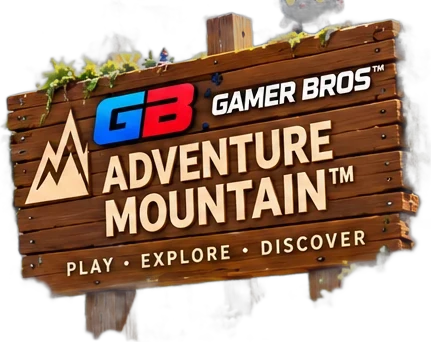
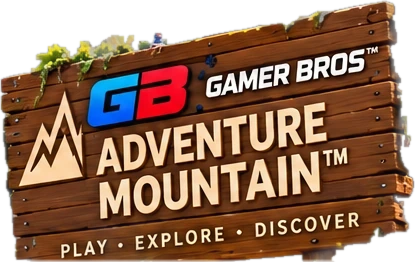
Pass A corrections: portrait map, character framing, sign/Bros re-extraction
- Portrait map: larger pannable map (readable labels), pan arrows and a
  minimap showing the whole world with the visible window; starts at
  Portal Meadow
- Hero character layer is now data-driven per slide (.hero__fg) so new
  transparent cutouts can be swapped without layout changes
- Portrait stills are framed in the scene band so Gamer Bro Blue is never
  hidden behind the fixed copy; blurred same-frame backdrop behind the copy
- Bros and sign re-extracted from the lossless reference; sign haze removed
- Blue's arm stub (hand hidden in the source) faded with a mask
- Slower carousel (8.5s interval, 1.5s transition)
- ASSET_AUDIT.md records sources, rejected candidates and art still needed

Claude-Session: https://claude.ai/code/session_01WDMc6omQTtU5QGMbzTfAf7

diff --git a/staging/staging.css b/staging/staging.css
@@ -81,7 +81,7 @@ button{font:inherit;color:inherit;cursor:pointer}
 /* ---------- hero ---------- */
 .hero{position:relative;height:calc(560 * var(--u));min-height:300px}
 .hero__slides{position:absolute;inset:0;overflow:hidden;z-index:0;touch-action:pan-y}
-.hero__track{display:flex;height:100%;transition:transform 1.1s cubic-bezier(.65,.02,.25,1);will-change:transform}
+.hero__track{display:flex;height:100%;transition:transform 1.5s cubic-bezier(.65,.02,.25,1);will-change:transform}
 .slide{flex:0 0 100%;height:100%;margin:0}
 .slide img{width:100%;height:100%;object-fit:cover;object-position:var(--pos,50% 40%);filter:brightness(1.06) saturate(1.05)}
 .slide:first-child{--pos:50% 30%}
@@ -96,23 +96,29 @@ button{font:inherit;color:inherit;cursor:pointer}
     linear-gradient(90deg,rgba(3,16,54,.78) 0,rgba(5,24,72,.55) 20%,rgba(6,28,80,.16) 33%,rgba(6,28,80,0) 42%);
 }
 
-/* fixed brand sign (sits under the map clouds) */
+/* fixed brand sign (independent of the slides) */
 .hero__sign{
   position:absolute;z-index:4;
-  -webkit-mask-image:linear-gradient(180deg,#000 78%,transparent 97%);
-          mask-image:linear-gradient(180deg,#000 78%,transparent 97%);
-  left:calc(1050 * var(--u));top:calc(220 * var(--u));width:calc(431 * var(--u));height:auto;
+  left:calc(1056 * var(--u));top:calc(238 * var(--u));width:calc(415 * var(--u));height:auto;
   filter:drop-shadow(0 calc(8 * var(--u)) calc(14 * var(--u)) rgba(0,20,40,.35));
   pointer-events:none;
 }
-/* slide-1 action art (sits above the map clouds so the shoes bleed into them) */
-.hero__bros{
-  position:absolute;z-index:6;
-  left:calc(491 * var(--u));top:calc(74 * var(--u));width:calc(510 * var(--u));height:auto;
-  transition:opacity .7s ease,transform .9s cubic-bezier(.2,.8,.2,1);
-  pointer-events:none;
+/* character layer: sits above the map clouds so shoes/limbs can bleed into them.
+   Each cutout carries its own box (see index.html); swapping art needs no layout change. */
+.hero__fg{position:absolute;inset:0;z-index:6;pointer-events:none}
+.fg{
+  position:absolute;height:auto;
+  left:calc(var(--x) * var(--u));top:calc(var(--y) * var(--u));width:calc(var(--w) * var(--u));
+  opacity:0;transform:translateY(calc(18 * var(--u))) scale(.98);
+  transition:opacity .9s ease,transform 1.1s cubic-bezier(.2,.8,.2,1);
 }
-.hero__bros.is-hidden{opacity:0;transform:translateY(calc(18 * var(--u))) scale(.98)}
+.fg.is-active{opacity:1;transform:none}
+/* source limitation: Blue's outstretched hand is hidden behind baked text in the approved
+   reference, so the sleeve ends in a stub. Fade it into the scene until a full-limb cutout exists. */
+.fg--stub-left{
+  -webkit-mask-image:linear-gradient(90deg,transparent 0,#000 10%);
+          mask-image:linear-gradient(90deg,transparent 0,#000 10%);
+}
 
 /* fixed hero copy */
 .hero__copy{position:absolute;inset:0;z-index:7;pointer-events:none}
@@ -202,6 +208,8 @@ button{font:inherit;color:inherit;cursor:pointer}
           mask-image:linear-gradient(180deg,transparent 0,#000 calc(40 * var(--u)));
 }
 .map:focus-visible{outline:none}
+.map-frame{position:relative}
+.map__pan,.map-nav{display:none}
 .map__canvas{position:relative;width:100%}
 .map__img{width:100%;height:auto}
 .hotspot{
@@ -298,9 +306,23 @@ button{font:inherit;color:inherit;cursor:pointer}
   .steam--hero{left:22px;top:calc(270 * var(--p));width:calc(252 * var(--p));height:calc(50 * var(--p));
     font-size:calc(15.5 * var(--p));border-radius:calc(12 * var(--p))}
 
-  .hero__bros{left:calc(50% - 193 * var(--p));top:calc(338 * var(--p));width:calc(236 * var(--p))}
-  .hero__sign{left:calc(50% + 28 * var(--p));top:calc(410 * var(--p));width:calc(166 * var(--p))}
-  .hero__bros.is-hidden{transform:translateY(12px) scale(.98)}
+  .fg{left:calc(50% + var(--px) * var(--p));top:calc(var(--py) * var(--p));width:calc(var(--pw) * var(--p));transform:translateY(12px) scale(.98)}
+  .fg.is-active{transform:none}
+  .hero__sign{left:calc(50% + 30 * var(--p));top:calc(426 * var(--p));width:calc(162 * var(--p))}
+
+  /* stills already contain the character: frame them in the scene band so heads/limbs
+     never sit behind the fixed copy; a blurred copy of the same frame fills the rest */
+  .slide--still{position:relative;overflow:hidden}
+  .slide--still::before{
+    content:"";position:absolute;inset:-40px;background:var(--bg) center 30%/cover no-repeat;
+    filter:blur(18px) brightness(.8) saturate(1.1);
+  }
+  .slide--still img{
+    position:absolute;left:0;top:calc(296 * var(--p));width:100%;height:calc(330 * var(--p));
+    object-fit:cover;object-position:var(--ppos,50% 50%);
+    -webkit-mask-image:linear-gradient(180deg,transparent 0,#000 14%,#000 84%,transparent 100%);
+            mask-image:linear-gradient(180deg,transparent 0,#000 14%,#000 84%,transparent 100%);
+  }
 
   .pillars{left:50%;top:calc(596 * var(--p));transform:translateX(-50%)}
   .pillars li{width:calc(118 * var(--p))}
@@ -321,13 +343,34 @@ button{font:inherit;color:inherit;cursor:pointer}
             mask-image:linear-gradient(180deg,transparent 0,#000 calc(50 * var(--p)));
   }
   .map::-webkit-scrollbar{display:none}
-  .map__canvas{width:max(100%,calc(1040 * var(--p)))}
+  /* full labelled map kept at a readable scale; pan with swipe, arrows or the minimap */
+  .map__canvas{width:max(100%,min(320cqw,1250px))}
+  .map__pan{
+    display:grid;place-items:center;position:absolute;z-index:5;top:58%;transform:translateY(-50%);
+    width:44px;height:44px;padding:0;border-radius:50%;
+    background:rgba(4,14,40,.66);border:1.5px solid rgba(255,255,255,.8);color:#fff;box-shadow:0 2px 10px rgba(0,0,0,.35);
+    transition:opacity .25s;
+  }
+  .map__pan svg{width:55%;height:55%}
+  .map__pan--prev{left:8px}.map__pan--next{right:8px}
+  .map__pan.is-off{opacity:0;pointer-events:none}
+  .map__pan:focus-visible{outline:3px solid #9fd8ff;outline-offset:2px}
+  .map-nav{display:block;position:relative;z-index:4;padding:2px 16px 0}
+  .minimap{
+    position:relative;max-width:520px;margin:6px auto 0;border-radius:10px;overflow:hidden;cursor:pointer;touch-action:none;
+    border:2px solid #fff;box-shadow:0 4px 14px rgba(10,40,100,.25);
+  }
+  .minimap img{width:100%;height:auto}
+  .minimap__view{
+    position:absolute;top:0;bottom:0;left:0;width:30%;border:2px solid #fff;border-radius:6px;
+    box-shadow:0 0 0 999px rgba(4,20,60,.38),0 0 10px rgba(80,180,255,.9);
+  }
+  .minimap:focus-visible{outline:3px solid #2f9bff;outline-offset:2px}
   .clouds--top{top:calc(-86 * var(--p));left:-110%;width:330%}
   .clouds--top2{top:calc(-62 * var(--p));left:-160%;width:390%}
   .clouds--top3{top:calc(-112 * var(--p));left:-200%;width:460%}
   .clouds--bottom{left:-60%;width:220%}
   .map__hint{
-    position:absolute;left:0;right:0;bottom:6px;z-index:5;
     display:flex;justify-content:center;gap:10px;align-items:center;margin:0;
     font-size:13px;font-weight:600;color:#2a4f86;letter-spacing:.02em;
   }
@@ -335,6 +378,6 @@ button{font:inherit;color:inherit;cursor:pointer}
 }
 
 @media (prefers-reduced-motion:reduce){
-  .hero__track,.hero__bros{transition:none}
+  .hero__track,.fg{transition:none}
   html{scroll-behavior:auto}
 }

diff --git a/staging/index.html b/staging/index.html
@@ -10,7 +10,7 @@
 <link rel="icon" href="assets/gb-logo.webp">
 <link rel="preload" href="assets/fonts/rubik-latin.woff2" as="font" type="font/woff2" crossorigin>
 <link rel="preload" href="assets/fonts/rubik-italic-latin.woff2" as="font" type="font/woff2" crossorigin>
-<link rel="stylesheet" href="staging.css?v=1">
+<link rel="stylesheet" href="staging.css?v=2">
 </head>
 <body>
 <svg width="0" height="0" style="position:absolute" aria-hidden="true">
@@ -40,16 +40,26 @@
   <section class="hero" aria-roledescription="carousel" aria-label="Adventure Mountain™ hero">
     <div class="hero__slides" id="heroSlides" aria-live="off">
       <div class="hero__track" id="heroTrack">
-        <figure class="slide" data-fg="bros" aria-label="Slide 1 of 4"><img src="assets/hero-world-highfive.webp" alt="" fetchpriority="high"></figure>
-        <figure class="slide slide--blue-portal" aria-label="Slide 2 of 4"><img src="assets/hero-blue-portal.webp" alt="Gamer Bro Blue™ beside a portal on Adventure Mountain™" loading="lazy"></figure>
-        <figure class="slide slide--blue-run" aria-label="Slide 3 of 4"><img src="assets/hero-blue-run.webp" alt="Gamer Bro Blue™ running toward a portal shrine" loading="lazy"></figure>
-        <figure class="slide slide--blue-bridge" aria-label="Slide 4 of 4"><img src="assets/hero-blue-bridge.webp" alt="Gamer Bro Blue™ crossing a rope bridge past waterfalls" loading="lazy"></figure>
+        <!-- Slide types:
+             plain  = world plate; its characters come from the .hero__fg layer (data-slide index)
+             still  = character already in the frame; portrait layouts frame it in the scene band -->
+        <figure class="slide" aria-label="Slide 1 of 4"><img src="assets/hero-world-highfive.webp" alt="" fetchpriority="high"></figure>
+        <figure class="slide slide--still" style="--bg:url(assets/hero-blue-portal.webp);--ppos:44% 50%" aria-label="Slide 2 of 4"><img src="assets/hero-blue-portal.webp" alt="Gamer Bro Blue™ beside a portal on Adventure Mountain™" loading="lazy"></figure>
+        <figure class="slide slide--still" style="--bg:url(assets/hero-blue-run.webp);--ppos:42% 50%" aria-label="Slide 3 of 4"><img src="assets/hero-blue-run.webp" alt="Gamer Bro Blue™ running toward a portal shrine" loading="lazy"></figure>
+        <figure class="slide slide--still" style="--bg:url(assets/hero-blue-bridge.webp);--ppos:50% 50%" aria-label="Slide 4 of 4"><img src="assets/hero-blue-bridge.webp" alt="Gamer Bro Blue™ crossing a rope bridge past waterfalls" loading="lazy"></figure>
       </div>
     </div>
     <div class="hero__shade" aria-hidden="true"></div>
 
-    <img class="hero__sign" src="assets/adventure-mountain-sign.webp" alt="GB GAMER BROS™ Adventure Mountain™ sign — PLAY • EXPLORE • DISCOVER" width="431" height="342">
-    <img class="hero__bros" id="heroBros" src="assets/bros-highfive.webp" alt="Gamer Bro Blue™ and Gamer Bro Red™ jumping for a high five" width="510" height="469">
+    <img class="hero__sign" src="assets/adventure-mountain-sign.webp" alt="GB GAMER BROS™ Adventure Mountain™ sign — PLAY • EXPLORE • DISCOVER" width="415" height="262">
+
+    <!-- Character layer. Swap a cutout by changing src + its box:
+         --x/--y/--w = landscape box in reference px (1536-wide grid)
+         --px/--py/--pw = portrait box in --p units (--px is offset from centre) -->
+    <div class="hero__fg">
+      <img class="fg fg--stub-left" data-slide="0" src="assets/bros-highfive.webp" alt="Gamer Bro Blue™ and Gamer Bro Red™ jumping for a high five" width="512" height="468"
+           style="--x:489;--y:75;--w:512;--px:-196;--py:336;--pw:240">
+    </div>
 
     <div class="hero__copy">
       <h1 class="headline"><span>EXPLORE</span> <span>A BRIGHTER</span> <span>TOMORROW</span></h1>
@@ -74,6 +84,7 @@
     <img class="clouds clouds--top2" src="assets/cloud-bank.webp" alt="" aria-hidden="true" width="2048" height="142">
     <img class="clouds clouds--top3" src="assets/cloud-bank.webp" alt="" aria-hidden="true" width="2048" height="142">
     <h2 id="worldTitle" class="sr-only">Adventure Mountain™ world map</h2>
+    <div class="map-frame">
     <div class="map" id="mapScroller" tabindex="0" aria-label="Adventure Mountain™ map. Scroll sideways on small screens.">
       <div class="map__canvas">
         <img class="map__img" src="assets/adventure-mountain-map.webp" alt="Labelled map of Adventure Mountain™ showing Portal Meadow™, Creek Crossing™, Riverworks™, Clover Cliffs™, Ruin Courtyard™, Prism Ridge™ and Frost Peaks™" width="1536" height="462">
@@ -86,8 +97,17 @@
         <button class="hotspot" type="button" data-area="frost"   style="--x:79.1;--y:19.0;--w:16.9;--h:13.4" aria-label="Frost Peaks™ — Icy Cliffs &amp; Granite Roads"></button>
       </div>
     </div>
+    <button class="map__pan map__pan--prev" type="button" data-pan="-1" aria-label="Pan map left" aria-controls="mapScroller"><svg aria-hidden="true" viewBox="0 0 24 24"><path d="M15 5l-7 7 7 7" fill="none" stroke="currentColor" stroke-width="2.8" stroke-linecap="round" stroke-linejoin="round"/></svg></button>
+    <button class="map__pan map__pan--next" type="button" data-pan="1" aria-label="Pan map right" aria-controls="mapScroller"><svg aria-hidden="true" viewBox="0 0 24 24"><path d="M9 5l7 7-7 7" fill="none" stroke="currentColor" stroke-width="2.8" stroke-linecap="round" stroke-linejoin="round"/></svg></button>
     <img class="clouds clouds--bottom" src="assets/cloud-bank.webp" alt="" aria-hidden="true" width="2048" height="142">
-    <p class="map__hint" aria-hidden="true"><span>‹</span> Swipe to explore the map <span>›</span></p>
+    </div>
+    <div class="map-nav">
+      <p class="map__hint" aria-hidden="true"><span>‹</span> Swipe to explore the map <span>›</span></p>
+      <div class="minimap" id="minimap" role="slider" tabindex="0" aria-label="Map position" aria-controls="mapScroller" aria-valuemin="0" aria-valuemax="100" aria-valuenow="0">
+        <img src="assets/adventure-mountain-map.webp" alt="" width="1536" height="462">
+        <span class="minimap__view" id="minimapView"></span>
+      </div>
+    </div>
   </section>
 </div>
 
@@ -97,6 +117,6 @@
 
 <div class="toast" id="steamNote" role="status" aria-live="polite">Steam store page coming soon.</div>
 
-<script src="staging.js?v=1" defer></script>
+<script src="staging.js?v=2" defer></script>
 </body>
 </html>

diff --git a/staging/staging.js b/staging/staging.js
@@ -40,10 +40,10 @@
   const slidesWrap = document.getElementById("heroSlides");
   const track = document.getElementById("heroTrack");
   const slides = [...track.children];
-  const bros = document.getElementById("heroBros");
+  const fgLayers = [...document.querySelectorAll(".hero__fg .fg")];
   const dotsWrap = document.getElementById("heroDots");
   const reduceMotion = window.matchMedia("(prefers-reduced-motion: reduce)").matches;
-  const INTERVAL = 7000;
+  const INTERVAL = 8500; // slow, deliberate rotation
   let index = 0;
   let timer = null;
 
@@ -62,7 +62,7 @@
     track.style.transform = `translateX(${-index * 100}%)`;
     slides.forEach((s, i) => s.setAttribute("aria-hidden", String(i !== index)));
     dots.forEach((d, i) => d.setAttribute("aria-selected", String(i === index)));
-    bros.classList.toggle("is-hidden", slides[index].dataset.fg !== "bros");
+    fgLayers.forEach((f) => f.classList.toggle("is-active", Number(f.dataset.slide) === index));
   }
   function restart() {
     clearInterval(timer);
@@ -103,6 +103,55 @@
 
   go(0);
   restart();
+
+  // ---------- map panning (portrait: swipe, arrows, minimap) ----------
+  const map = document.getElementById("mapScroller");
+  const panPrev = document.querySelector(".map__pan--prev");
+  const panNext = document.querySelector(".map__pan--next");
+  const minimap = document.getElementById("minimap");
+  const minimapView = document.getElementById("minimapView");
+
+  function syncMap() {
+    const max = map.scrollWidth - map.clientWidth;
+    const pannable = max > 2;
+    const ratio = pannable ? map.scrollLeft / max : 0;
+    panPrev.classList.toggle("is-off", !pannable || map.scrollLeft < 4);
+    panNext.classList.toggle("is-off", !pannable || map.scrollLeft > max - 4);
+    minimapView.style.width = `${(map.clientWidth / map.scrollWidth) * 100}%`;
+    minimapView.style.left = `${(map.scrollLeft / map.scrollWidth) * 100}%`;
+    minimap.setAttribute("aria-valuenow", String(Math.round(ratio * 100)));
+  }
+  function panTo(fraction, smooth) {
+    // fraction = centre of the view as a share of the full map width
+    const left = fraction * map.scrollWidth - map.clientWidth / 2;
+    map.scrollTo({ left, behavior: smooth && !reduceMotion ? "smooth" : "auto" });
+  }
+  map.addEventListener("scroll", syncMap, { passive: true });
+  window.addEventListener("resize", syncMap);
+  [panPrev, panNext].forEach((b) =>
+    b.addEventListener("click", () =>
+      map.scrollBy({ left: Number(b.dataset.pan) * map.clientWidth * 0.7, behavior: reduceMotion ? "auto" : "smooth" })
+    )
+  );
+  let dragging = false;
+  const minimapAt = (e) => {
+    const r = minimap.getBoundingClientRect();
+    panTo(Math.min(1, Math.max(0, (e.clientX - r.left) / r.width)), !dragging);
+  };
+  minimap.addEventListener("pointerdown", (e) => { dragging = true; minimap.setPointerCapture(e.pointerId); minimapAt(e); });
+  minimap.addEventListener("pointermove", (e) => { if (dragging) minimapAt(e); });
+  minimap.addEventListener("pointerup", () => (dragging = false));
+  minimap.addEventListener("pointercancel", () => (dragging = false));
+  minimap.addEventListener("keydown", (e) => {
+    if (e.key === "ArrowLeft" || e.key === "ArrowRight") {
+      e.preventDefault();
+      map.scrollBy({ left: (e.key === "ArrowLeft" ? -1 : 1) * map.clientWidth * 0.5, behavior: "auto" });
+    }
+  });
+  // start where the adventure begins (Portal Meadow™ on the left)
+  map.scrollLeft = 0;
+  syncMap();
+  window.addEventListener("load", syncMap);
 
   // ---------- map hotspots (area views are wired in Pass B) ----------
   const AREA_NAMES = {

diff --git a/staging/ASSET_AUDIT.md b/staging/ASSET_AUDIT.md
@@ -1,0 +1,49 @@
+# Pass A — asset audit (staging)
+
+Visual authority: `PRIMARY_APPROVED_TARGET.png` and `APPROVED_HERO_MAP_HIGH_RES_REFERENCE.png` (1536×1024).
+
+## Selected sources
+
+| Staging file | Source | Why |
+|---|---|---|
+| `assets/gb-logo.webp` | Extracted from the approved high-res reference | Closest match to the target logo (no outline/gloss). Source is ~190 px wide, so it is slightly soft on 2× screens. |
+| `assets/adventure-mountain-sign.webp` | Re-extracted from the **lossless** high-res reference (01A), haze removed, trimmed at board edge | Exact target design (two-line ADVENTURE MOUNTAIN™, mountain mark, vines). Posts were semi-transparent and are covered by the cloud bank anyway. |
+| `assets/bros-highfive.webp` | Re-extracted from the lossless high-res reference | Only approved Bros action pose. See limitation below. |
+| `assets/hero-world-highfive.webp` | `raw_img5` (character-free world plate) | Backdrop for slide 1 only; the Bros cutout sits on top. |
+| `assets/hero-blue-portal.webp`, `hero-blue-run.webp`, `hero-blue-bridge.webp` | Video stills `7516_1s`, `7516_7s`, `7531_14s` | Gamer Bro Blue™ only, no backpack, no pink character. 1280×720, softer than slide 1. Pending approval. |
+| `assets/adventure-mountain-map.webp` | High-res reference, rows 562–1024 | Labelled map with its own clouds; hotspots sit over the baked labels. |
+| `assets/cloud-bank.webp` | Keyed from the target's cloud sea | Real cloud imagery instead of CSS shapes. |
+
+## Reviewed but not selected
+
+| Candidate | Decision |
+|---|---|
+| `logo_white_variant_1.png`, `logo_white_variant_2.png` | Clean, crisp masters (2172 px), but add a heavy black outline and gloss the target does not have. Variant 2 is the best swap-in if that style is confirmed as the canonical logo. |
+| `wood_sign_variant.png` | Clean and high-res, but ADVENTURE MOUNTAIN™ is on one line, there are no posts/vines, and the wood is more orange. Best fallback if a crisper sign is preferred over exact fidelity. |
+| `blended_sign_variant_1/2.png`, `blue_banner_variant.png` | Different designs from the target sign. Kept for later sections. |
+| `DUO_CUTOUT_BLUE_RED.png` | Complete limbs, but a crouching pose that does not match the target's high-five. |
+| `Blue Gamer Bros Mascot Character.png`, `GB Gamer Bro Blue - Sport.jpg` | Single-character reference/pose images, not hero action art. |
+| Purple / Yellow turnarounds | Model references only, not action art. |
+| `gb_video_refs/*` | Pink/chibi character, excluded everywhere. |
+
+## Cropping findings
+
+- **Source limitation:** Gamer Bro Blue™'s outstretched hand is hidden behind the baked headline in the approved reference, so the sleeve ends in a stub. The stub is faded with a CSS mask (`.fg--stub-left`) until a full-limb cutout exists.
+- **CSS framing (fixed):** In portrait layouts the 16:9 video stills were cover-scaled into a tall frame, so Blue's head sat behind the headline and CTA. Stills are now framed in the scene band with a blurred copy of the same frame behind the copy.
+- No other hands, feet or hair are clipped by the layout at the five review sizes.
+
+## Swapping character art later
+
+The character layer is `.hero__fg` in `index.html`. Each cutout is one `<img class="fg" data-slide="N">` with its own box:
+`--x/--y/--w` (landscape, reference px) and `--px/--py/--pw` (portrait). Replace `src` and the box values; no layout code changes are needed.
+
+## Art still needed (not generated in Pass A)
+
+1. Gamer Bro Blue™ + Gamer Bro Red™ high-five, transparent, full limbs, ≥2× resolution (replaces the extracted cutout).
+2. A clean, text-free render of the approved hero world behind the Bros (optional; improves slide 1 sharpness).
+3. Two or three more transparent Bros action poses for slides 2–4 (replacing the 720p video stills).
+4. Gamer Girl Purple™ action pose, transparent.
+5. Gamer Girl Yellow™ action pose, transparent.
+6. Four-character team action image (Meet the Team™ / later hero slide).
+7. Per-character card art for Meet the Team™ (all four).
+8. Canonical transparent logo master matching the target style (no outline), or confirmation that the outlined variant is now canonical.
